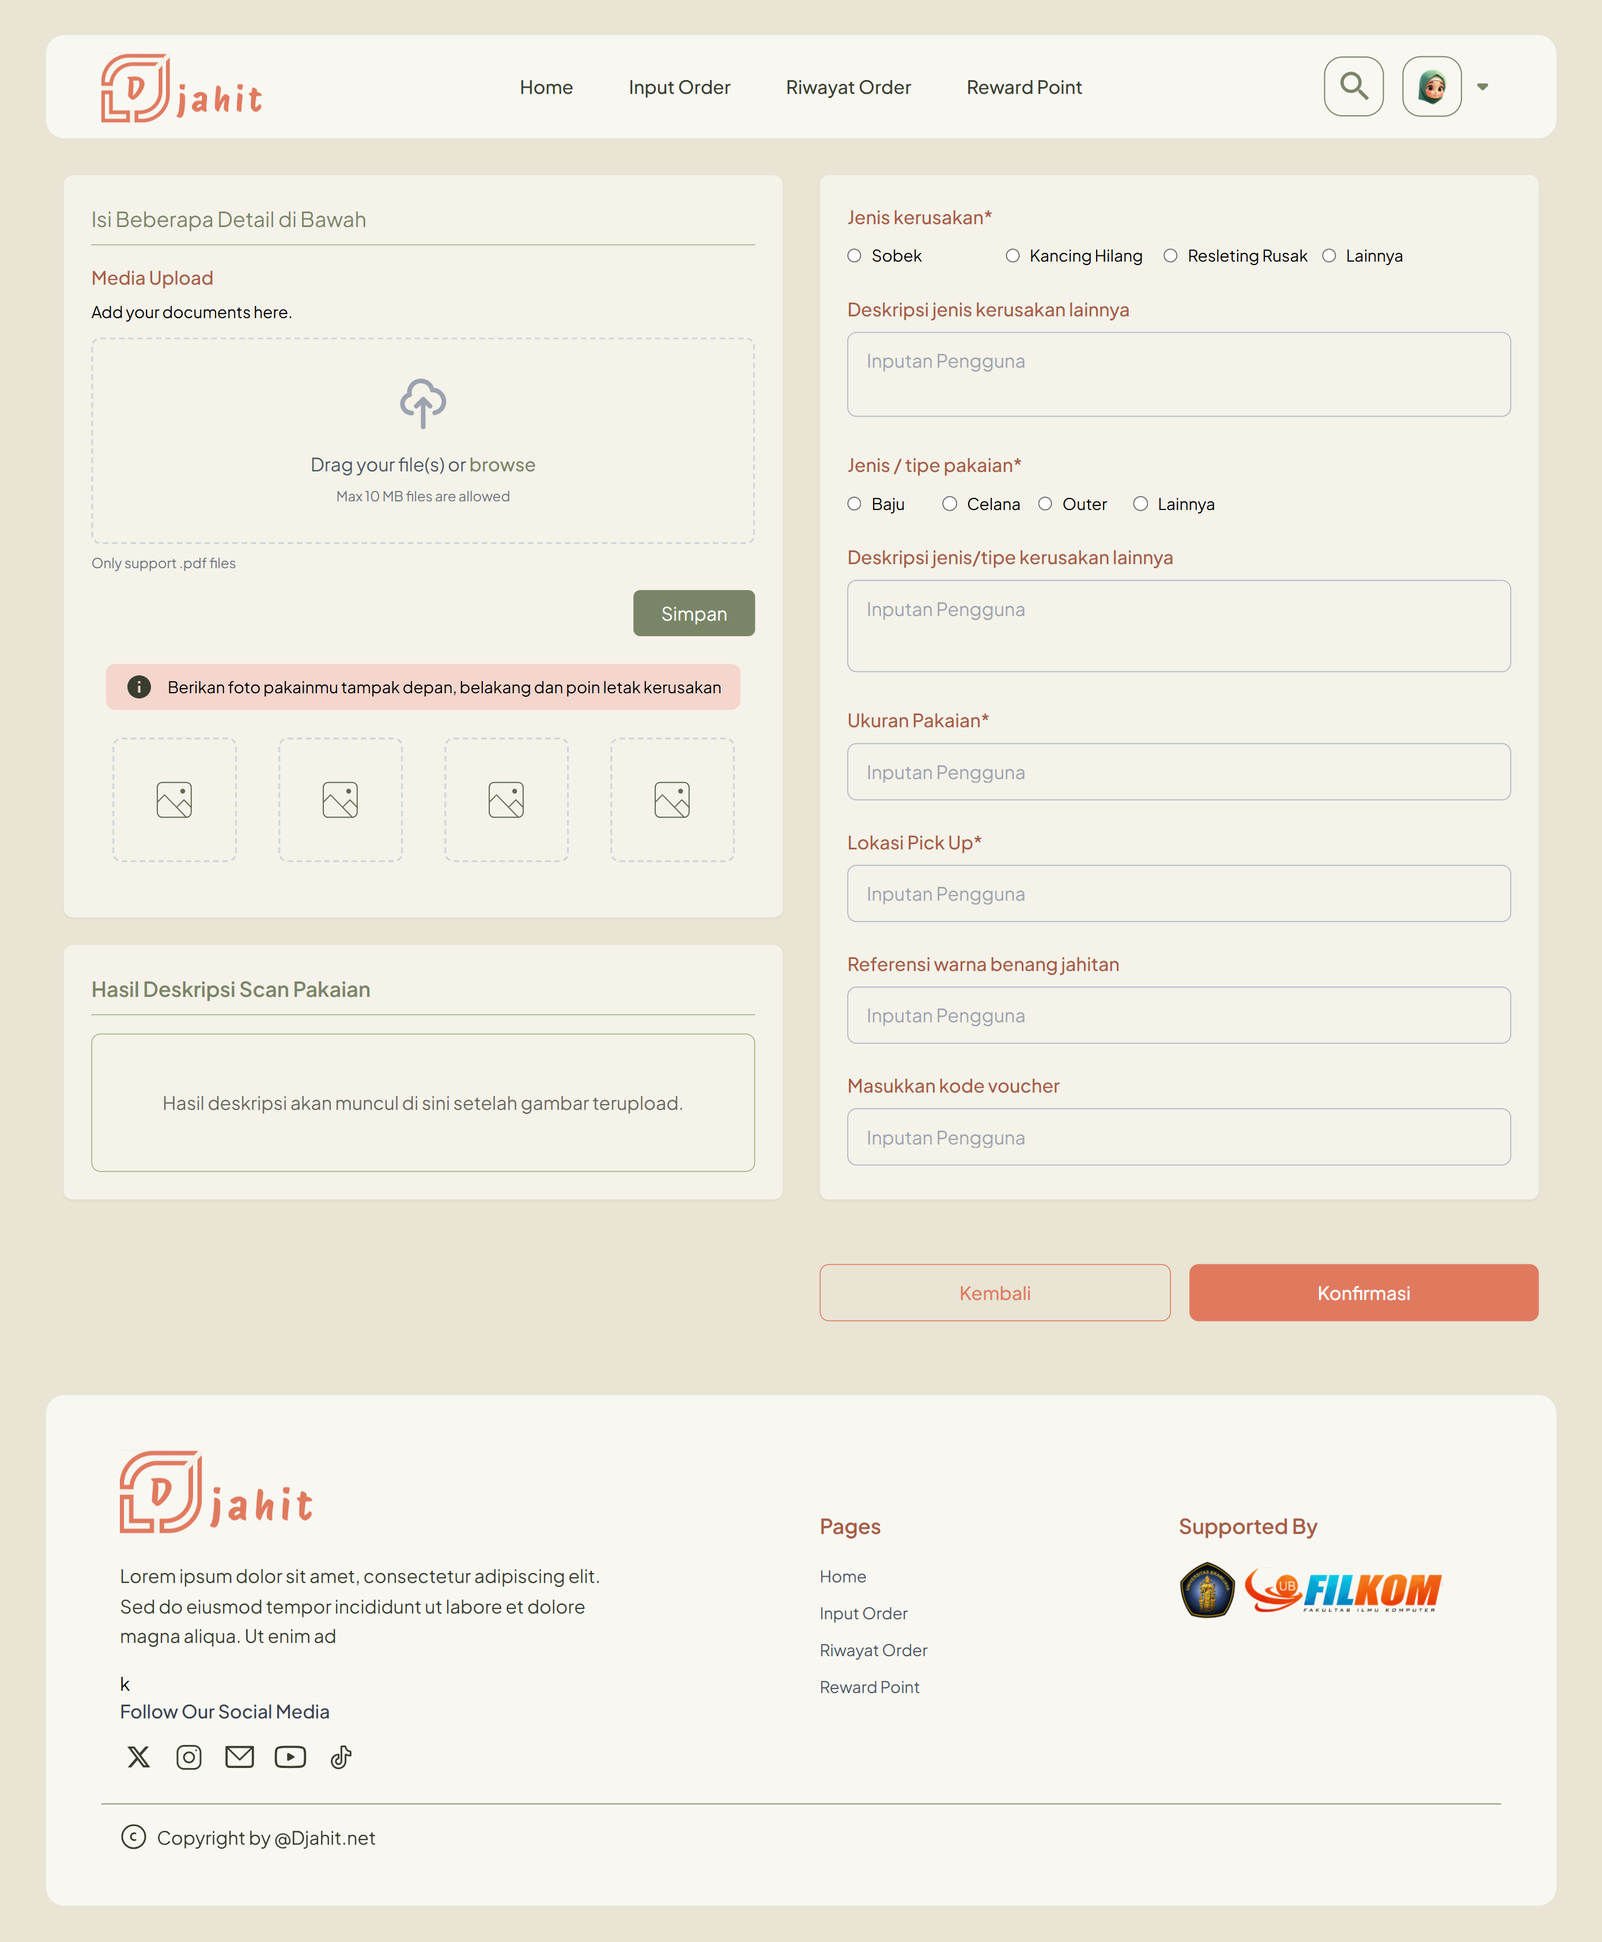
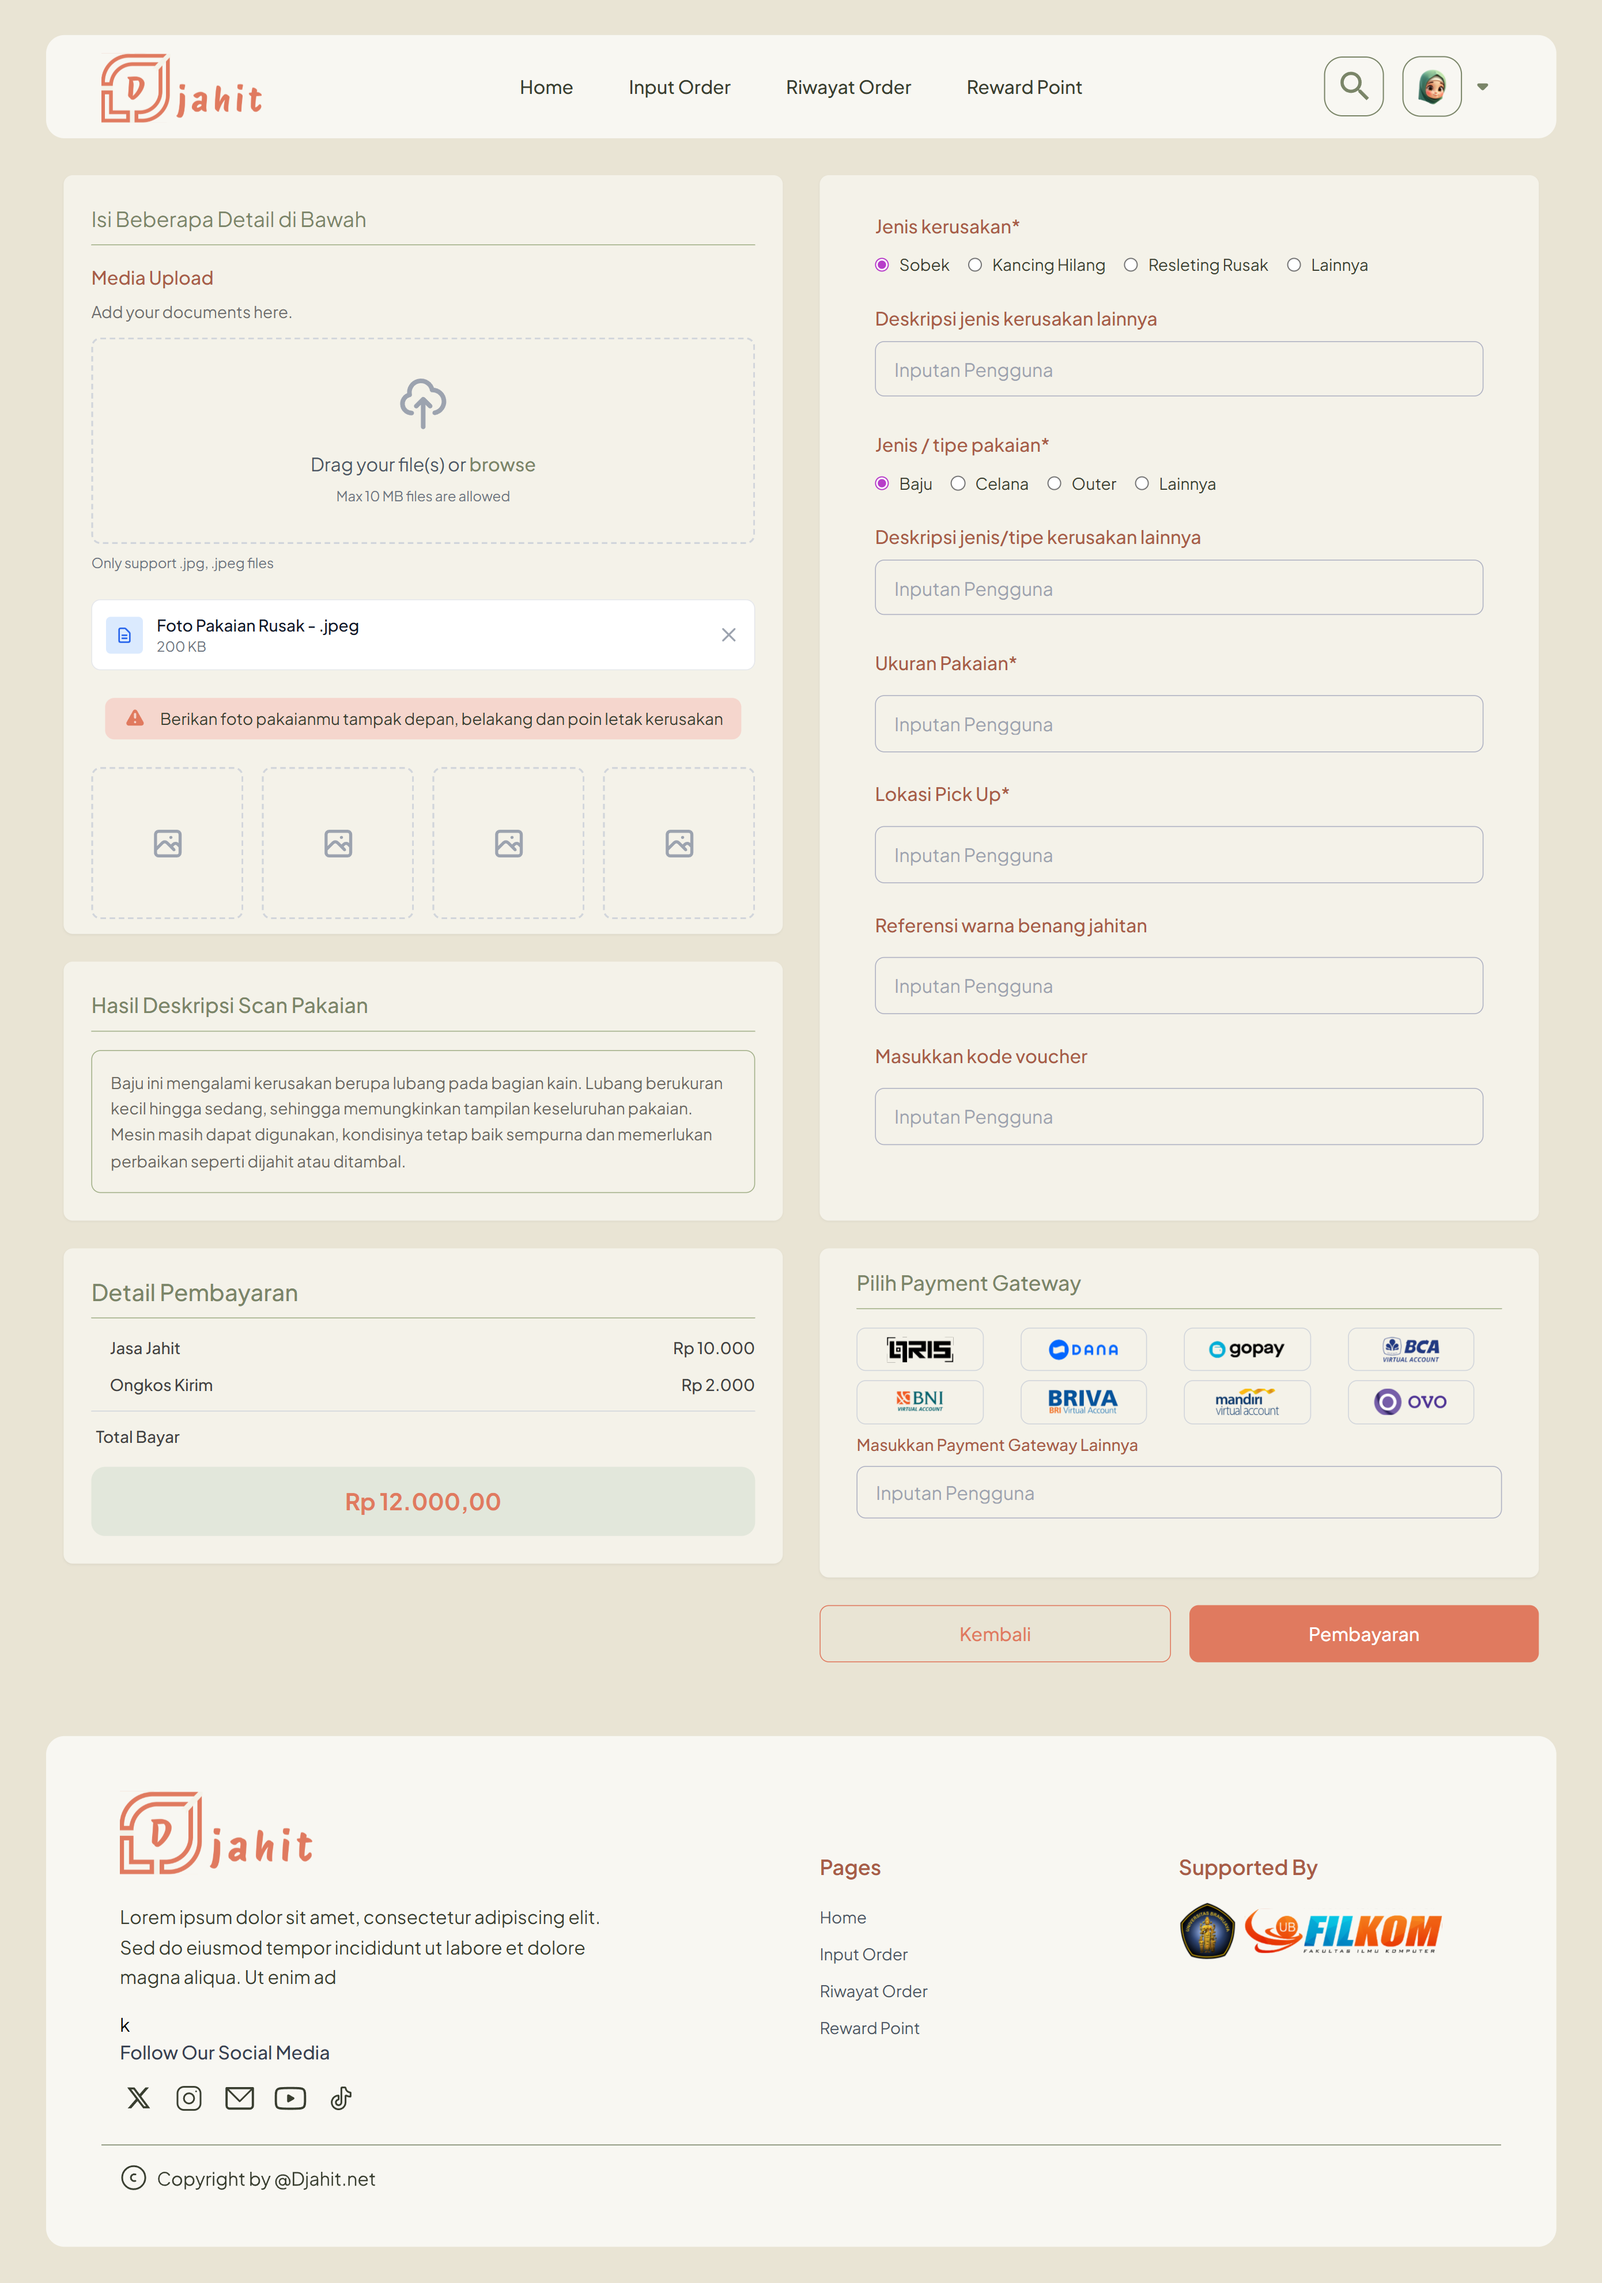
minor adjustment

diff --git a/README.md b/README.md
@@ -20,7 +20,7 @@
 4. Install the Live Server extension.  
 5. Once the extension is installed, you'll see a "Go Live" button at the bottom of the window—click it. 
 ![go live](golive.png)
-6. When the Live Server starts running, you will be automatically directed to the *forminput.html* page.  
+6. When the Live Server starts running, you will be automatically directed to the *formpembayaran.html* page.  
 7. The page should then appear exactly as shown in the image provided below.
 
 
